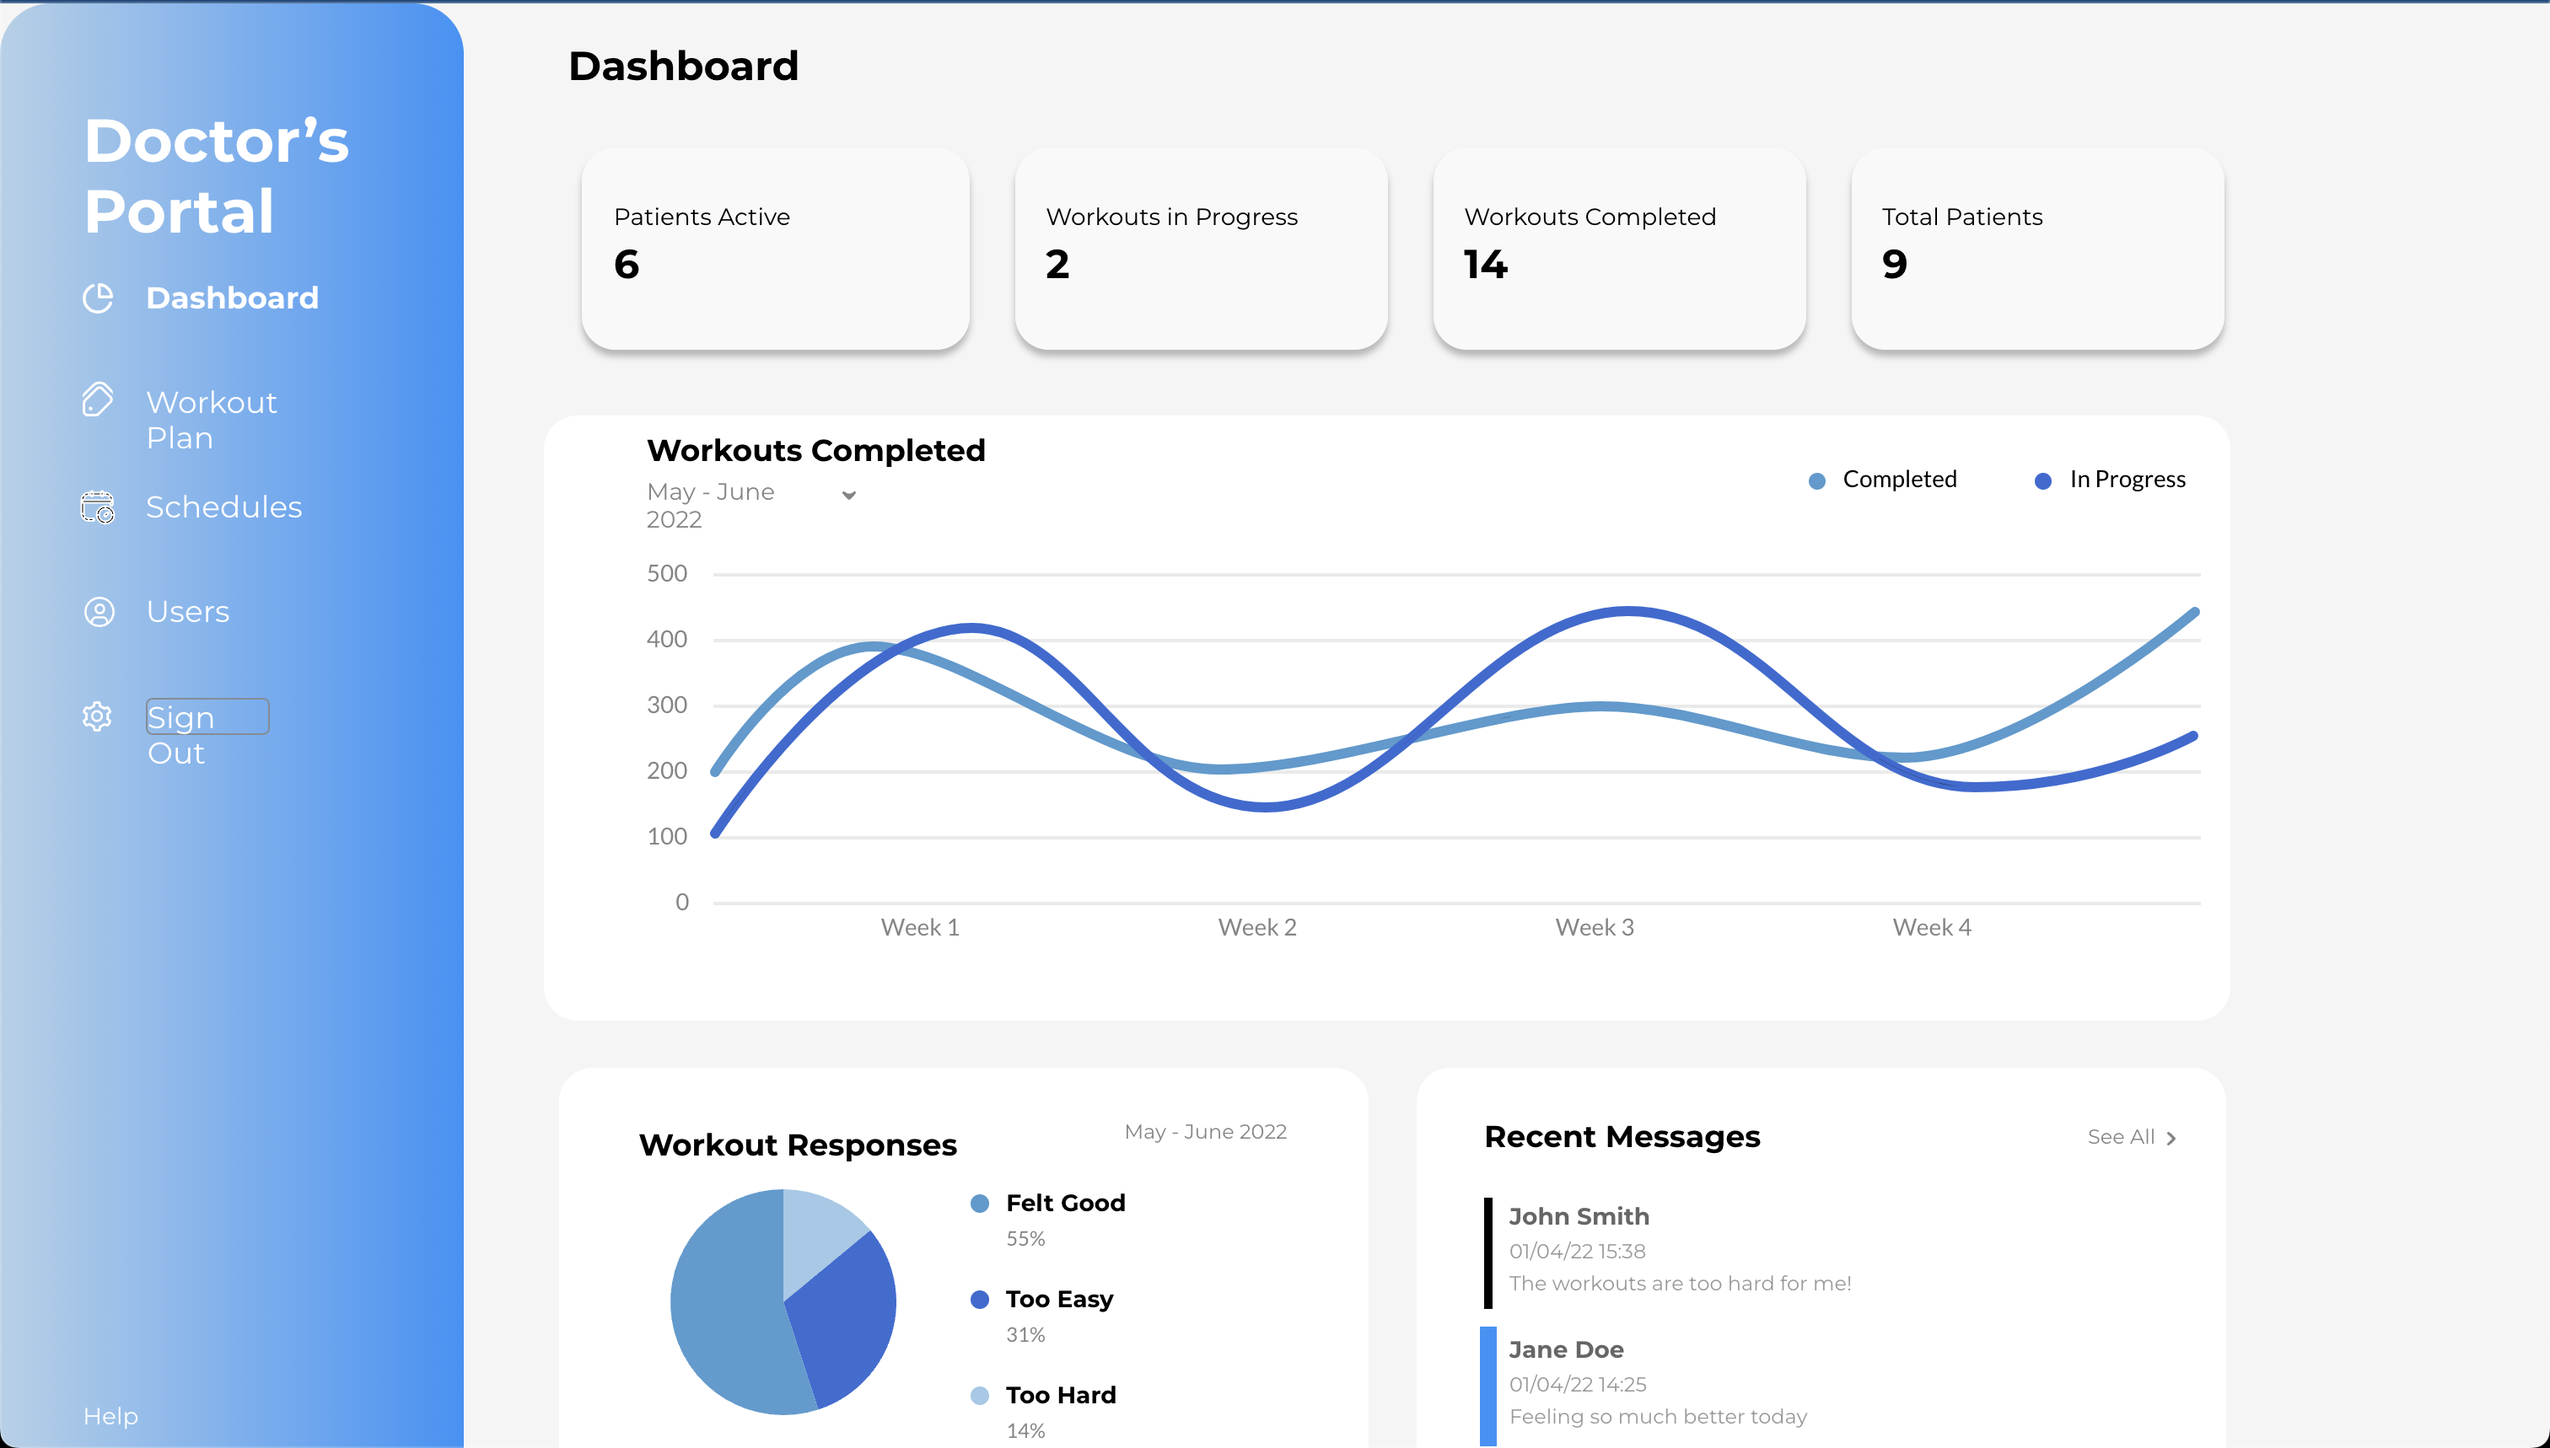
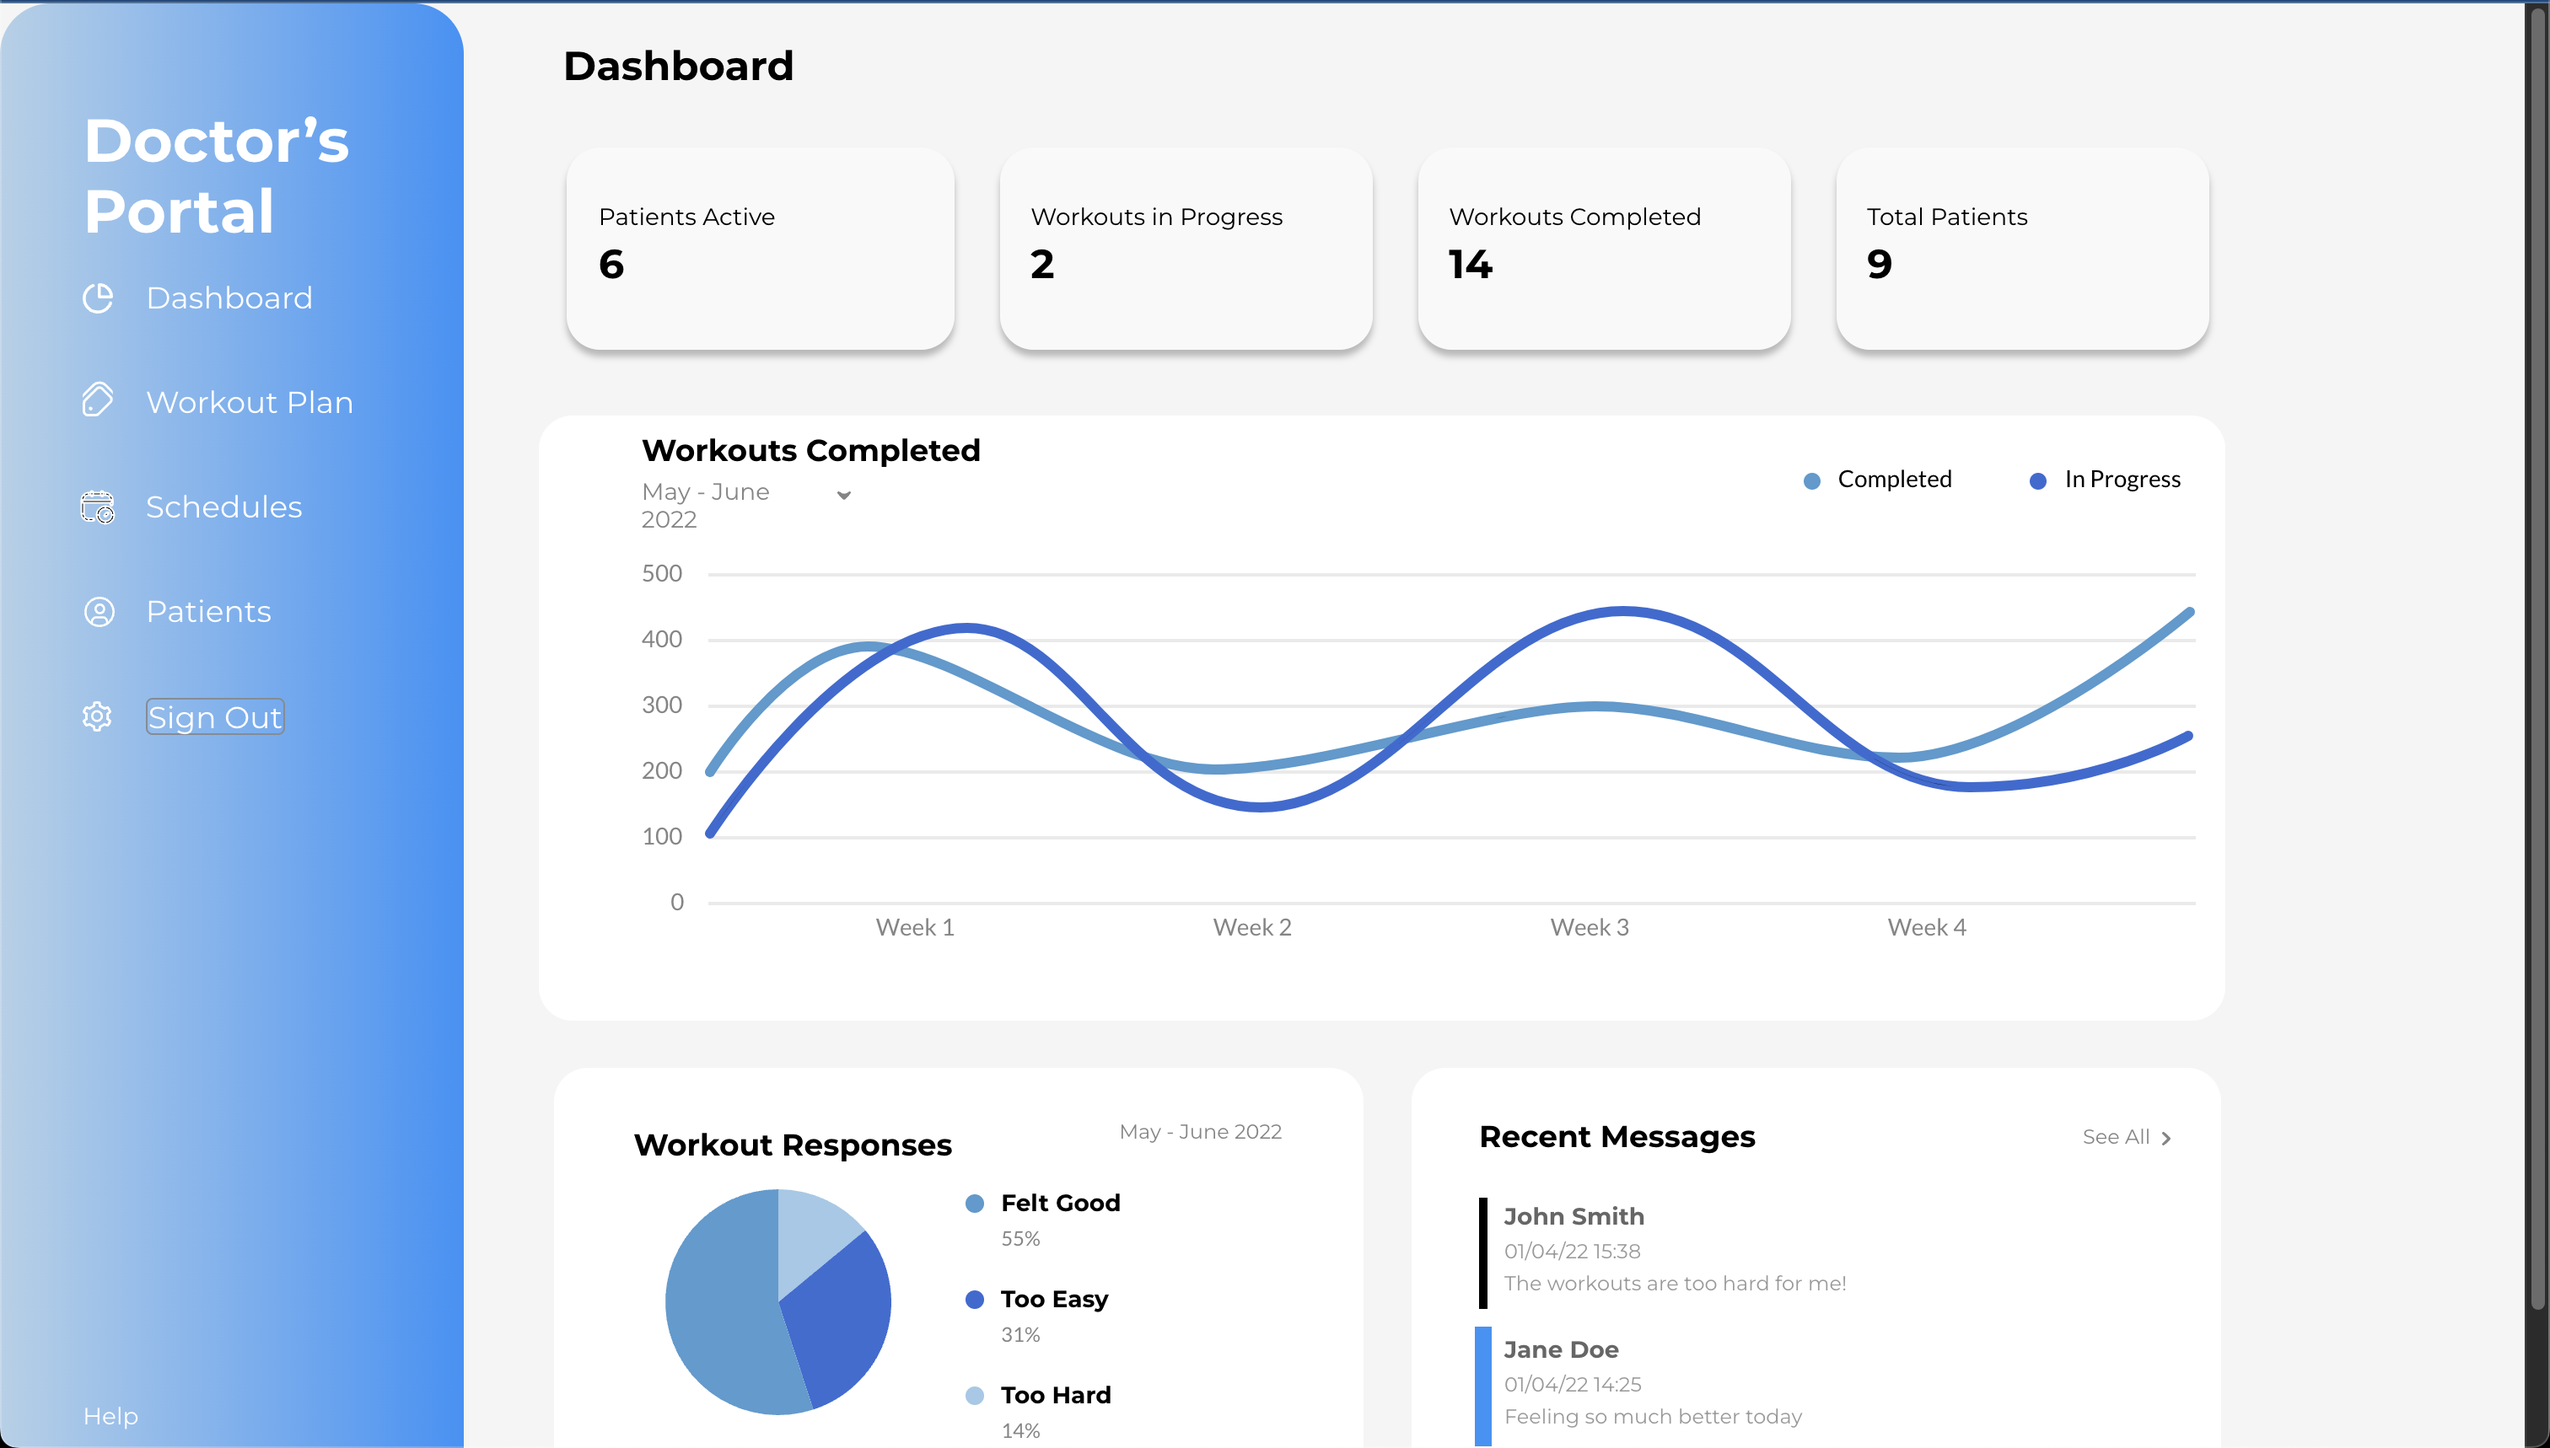
updating readme and imagery

diff --git a/README.md b/README.md
@@ -1,8 +1,12 @@
 # diabetes-portal
 
-Doctors Admin portal for diabetes rehab patients. 
+Doctors Admin portal for diabetes rehab patients. The best non-medicinal treatment with the most promising results is physical exercise. However, it is difficult for patitents to keep motivated and get the appropriate amount of exercise.
 
-### `npm start` to start the web-app portal
+This project was made for my CompSci 399 course at The University of Auckland. I worked with 5 other developers to develop this doctors admin webapp to assign & track the workouts and a patients Fitbit application to record & track their workouts.
+
+We completed this project in record time, 4 weeks instead of the usual 8-10 weeks that other group got to complete it. This delay was casue due to some administrative issues from the university's side causing delay's in our AWS and other project access required for this. We are still proud of the significant progress we made with the limited resources in such a short period of time. 
+
+### <u>`npm start` to start the web-app portal</u>
 
 Runs the app in the development mode.\
 Open [http://localhost:3000](http://localhost:3000) to view it in your browser.
@@ -10,4 +14,29 @@ Open [http://localhost:3000](http://localhost:3000) to view it in your browser.
 The page will reload when you make changes.\
 You may also see any lint errors in the console.
 
+## Functionalities & Pages
+### Dashboard 
+- Shows important information about patients and workouts along with messages to access them straight away from the homepage.
 
+![Dashboard](./src/readme-images/Dashboard.png)
+
+---
+
+### Workout Plan
+- Doctor uses this page to assign workouts and also keep track of the patients workouts.
+
+![WorkoutPlan](./src/readme-images/WorkoutPlan.png)
+
+---
+
+### Schedules Page
+- Doctor uses this page to book appointments and keeping track of current and past patients using a calendar
+
+![Schedules](./src/readme-images/Schedules.png)
+
+---
+
+### Patients Page
+- This page is used to add, store and access all patient information.
+
+![Patients](./src/readme-images/Patients.png)
